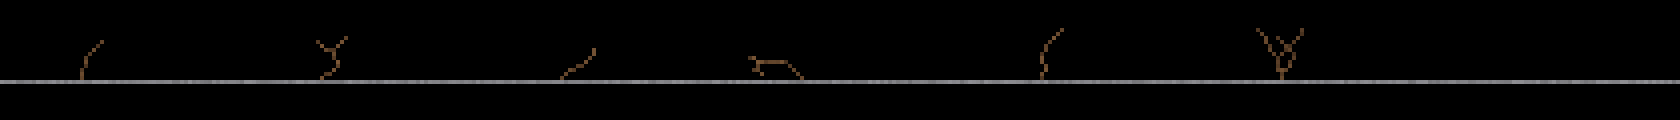
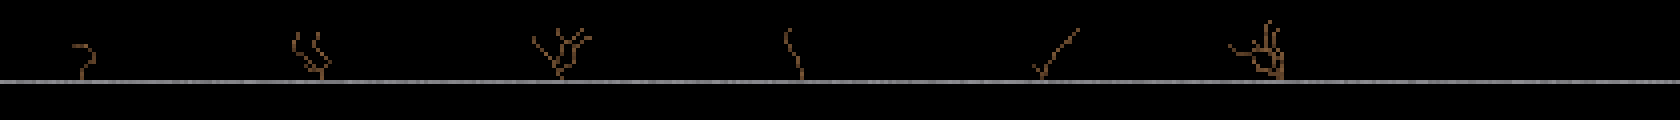
Tree rewrite step 8: independent review, plus fixes from what it found
Spawned a fresh agent with no authorship bias to re-verify the design
doc's own 4 previously-blocking findings against the actual shipped code,
not just the design prose (the design's own 2nd review round only ever
checked the document, never the implementation). Verdict: all 4 confirmed
correct as implemented -- self-avoidance's deposit/diffuse/decay/follow
chain, the honestly-scoped no-dominance resource economy, direction
inference at branch points, and both MatureBody transition paths
(staleness-triggered and immediate-retirement-on-success) are all wired
correctly, cross-checked file:line against the design's own claims.

Found one real bug beyond the 4: `gravity_or_water`'s fallback defaulted
to (0.0, 1.0) -- down -- for every cell type, not just RootTip. tree.ron's
GrowingTip.upward_weight (0.1, positive, clearly meant to nudge growth
up) was therefore actually rewarding downward growth, the opposite of its
name and intent -- and this dispatch's own comment claiming the term
"contributes nothing to canopy growth in practice" was wrong, not just
imprecise: the weight was small, but the direction was inverted, not
inert. GrowingTip could also get pulled toward moisture gradients via
MIZ1, a mechanism tree-rewrite-design.md §2 explicitly scopes to roots
only. Fixed by branching on cell_type: RootTip keeps its exact existing
gravity/MIZ1 logic untouched (no need to re-verify its already-tuned
resource economy), GrowingTip gets a true, fixed up-vector with no MIZ1
[…]

diff --git a/src/sim/plant.rs b/src/sim/plant.rs
@@ -343,16 +343,31 @@ fn organism_tick(world: &mut World, x: i32, y: i32, organism_id: u16, stale_tick
 
                 let photo = organism::phototropism_dir(world, x as f32, y as f32);
                 let wind = organism::wind_lean_dir(world, x as f32, y as f32);
-                // Gravitropism/hydrotropism antagonism (MIZ1): contributes
-                // nothing to canopy growth in practice, since `tree.ron`
-                // sets `GrowingTip`'s own `upward_weight` near zero -- the
-                // weight does the species-differentiation work here, not a
-                // cell-type branch inside this dispatch (`Reports/tree-
-                // rewrite-design.md` §2's own "the weight does the work"
-                // shape, applied to this term too).
-                let gravity_or_water = match organism::moisture_pull(world, x as f32, y as f32) {
-                    Some((dir, strength)) if strength >= MIZ_THRESHOLD => dir,
-                    _ => (0.0, 1.0), // down
+                // A real independent review caught this term inverted for
+                // canopy: it used to default to `(0.0, 1.0)` (down) for
+                // *every* cell type, so `GrowingTip`'s own positive `
+                // upward_weight` was actually rewarding downward growth,
+                // the opposite of its name and `tree.ron`'s own intent --
+                // this doc used to (wrongly) claim the term "contributes
+                // nothing to canopy growth in practice" because the weight
+                // was small (0.1), not because the direction was correct.
+                // It could also pull a `GrowingTip` toward a moisture
+                // gradient via MIZ1, which `Reports/tree-rewrite-
+                // design.md` §2 explicitly scopes to roots only.
+                //
+                // Gravitropism/hydrotropism antagonism (MIZ1) stays
+                // `RootTip`-only, matching that scoping exactly; canopy
+                // gets a true, fixed "up" reference instead, with no MIZ1
+                // override -- `RootTip`'s own branch is untouched from
+                // before this fix, so its already-tuned resource economy
+                // doesn't need re-verifying.
+                let gravity_or_water = if cell_type == CellType::RootTip {
+                    match organism::moisture_pull(world, x as f32, y as f32) {
+                        Some((dir, strength)) if strength >= MIZ_THRESHOLD => dir,
+                        _ => (0.0, 1.0), // down
+                    }
+                } else {
+                    (0.0, -1.0) // up
                 };
 
                 // §2b: score every open 8-neighbour, weighted-random
@@ -434,8 +449,20 @@ fn organism_tick(world: &mut World, x: i32, y: i32, organism_id: u16, stale_tick
                 // §3's branching: a second successful `Grow`, in a
                 // different direction, this same tick -- gated by the
                 // same resource economy as the first, not a separate
-                // mechanic.
-                if resource >= cost && world.rng.chance(branch_chance) {
+                // mechanic. Also gated by `max_active_tips` again here
+                // (the "+1" accounts for the primary child just created
+                // above, which isn't in `world`'s own `active_sites` yet
+                // -- it's still sitting in this call's own `next`, only
+                // merged in by the caller after this returns, so `world.
+                // organism_active_tip_count` can't see it yet on its own).
+                // A real independent review caught this cap only being
+                // checked once, before the primary child, which let a
+                // single tick's branch roll overshoot it by one right at
+                // the cap.
+                if resource >= cost
+                    && world.rng.chance(branch_chance)
+                    && world.organism_active_tip_count(organism_id, cell_type) + 1 < max_active_tips as usize
+                {
                     let alt: Vec<(i32, i32, f32)> = candidates.into_iter().filter(|&(nx, ny, _)| (nx, ny) != (tx, ty)).collect();
                     if !alt.is_empty() {
                         let (bx, by, _) = alt[world.rng.below(alt.len() as u32) as usize];
@@ -1404,7 +1431,7 @@ mod tests {
         let tree_species = w.species.id_of("tree").expect("tree species must be loaded");
         let wood = w.materials.id_of("wood").unwrap();
         let organism_id = w.push_organism(tree_species);
-        // Comfortably above tree.ron's GrowingTip `Grow` cost (0.4), in
+        // Comfortably above tree.ron's GrowingTip `Grow` cost (0.2), in
         // open space on every side, so this call is guaranteed to find a
         // positive-scoring candidate and actually grow.
         let aux = organism::pack_aux(CellType::GrowingTip, 2.0);
